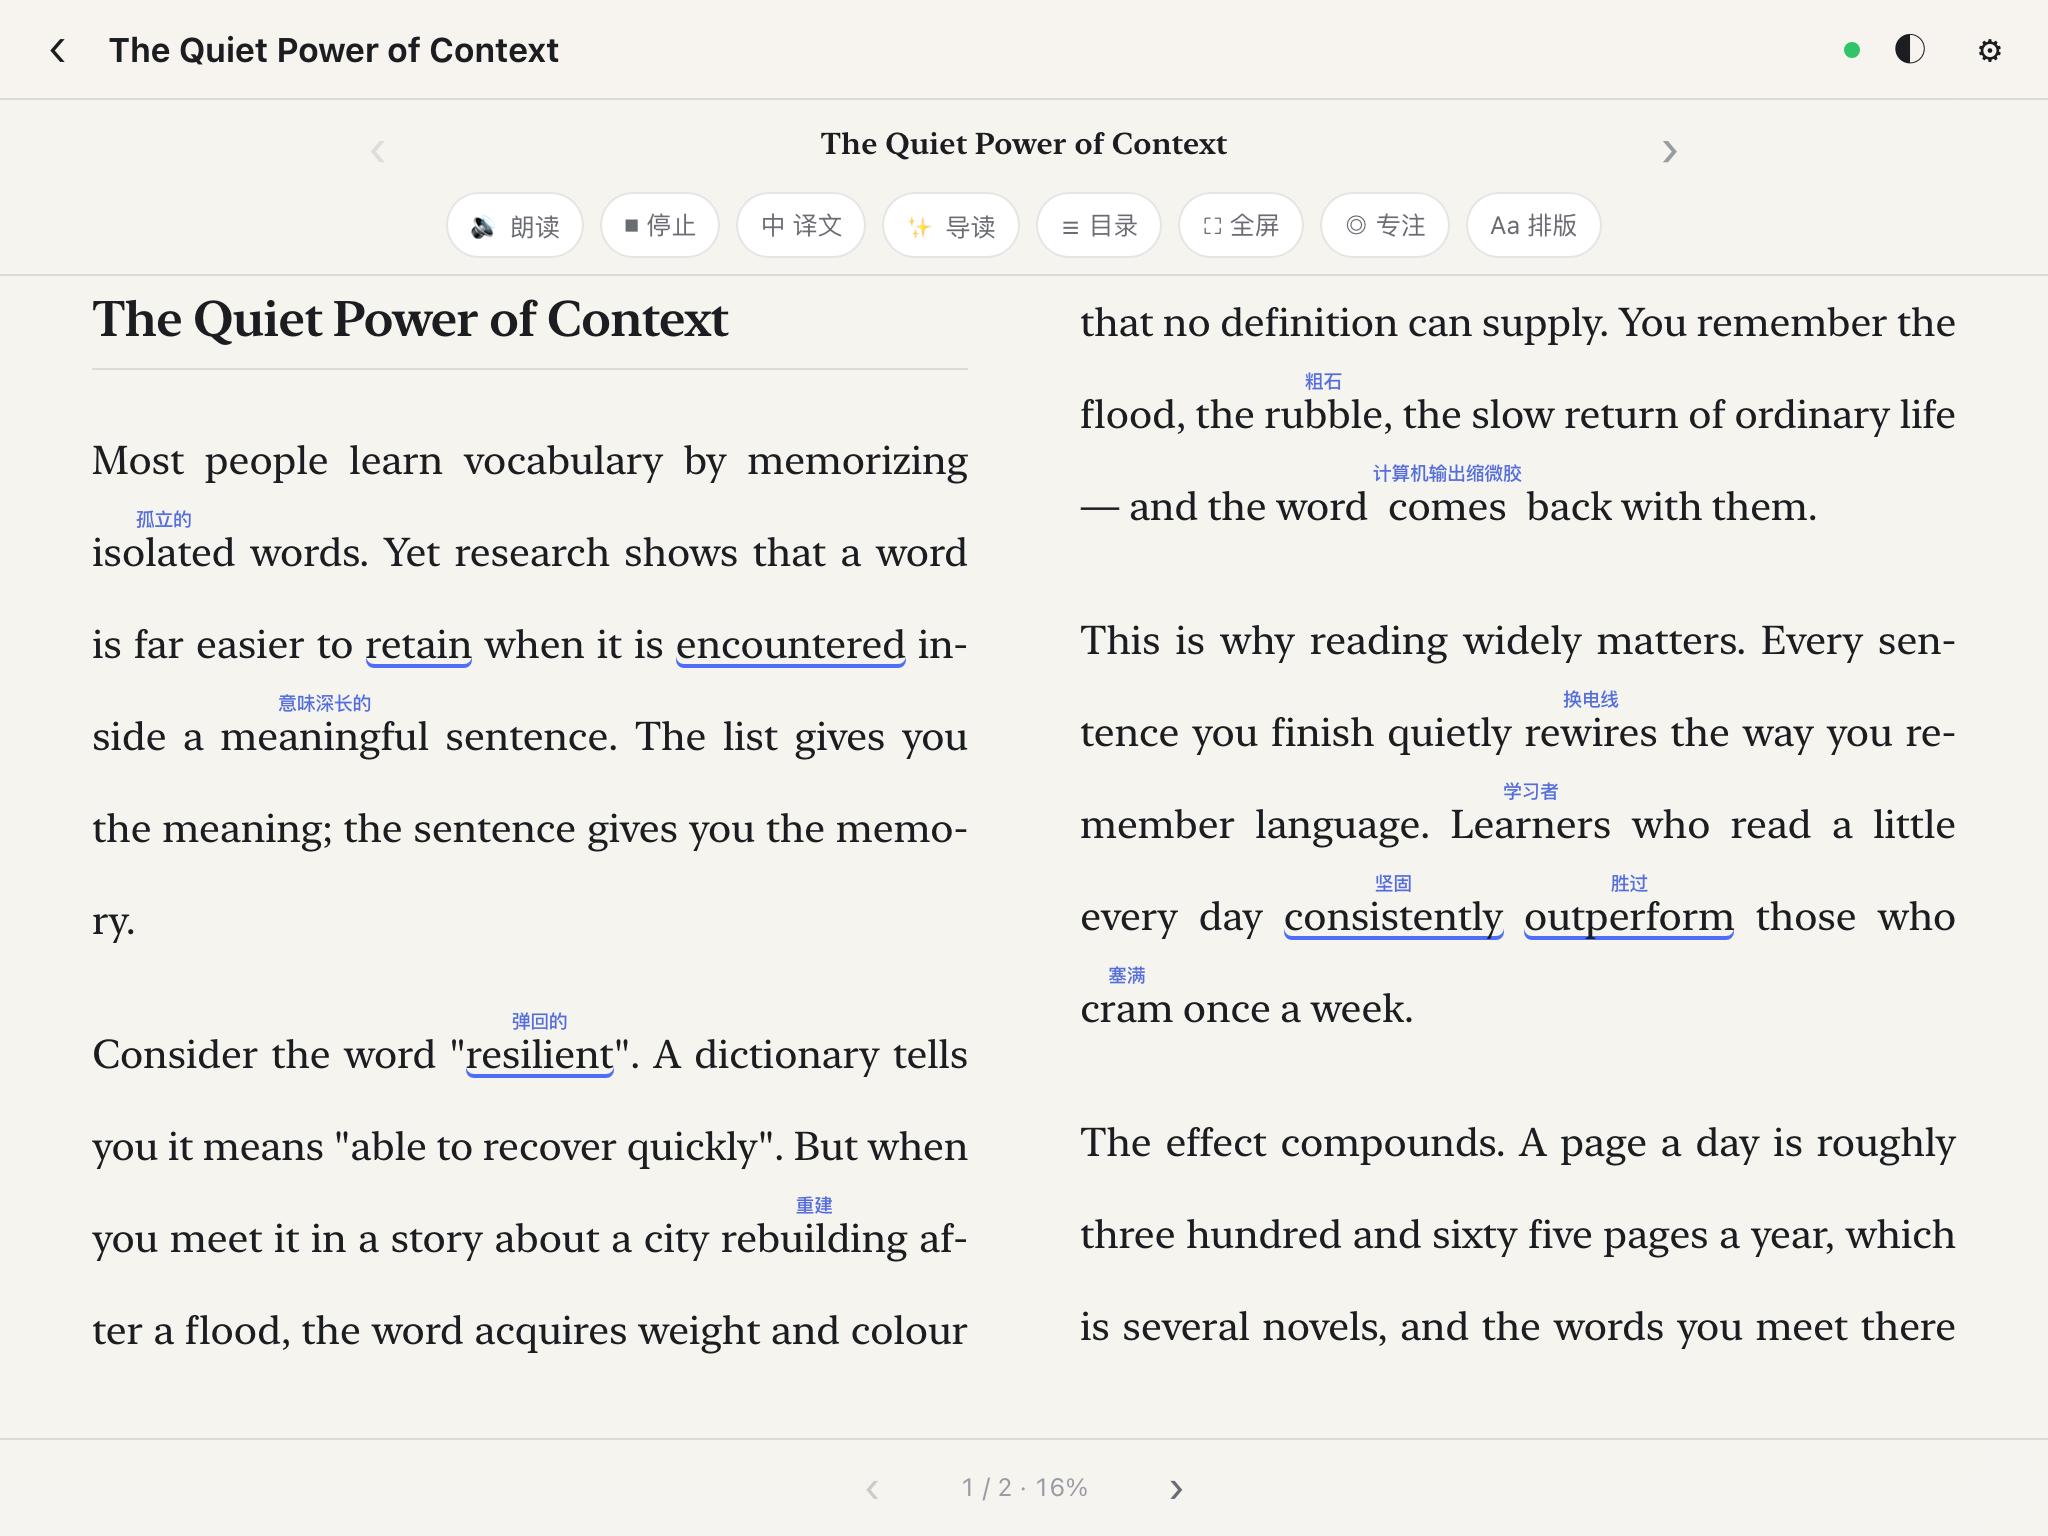
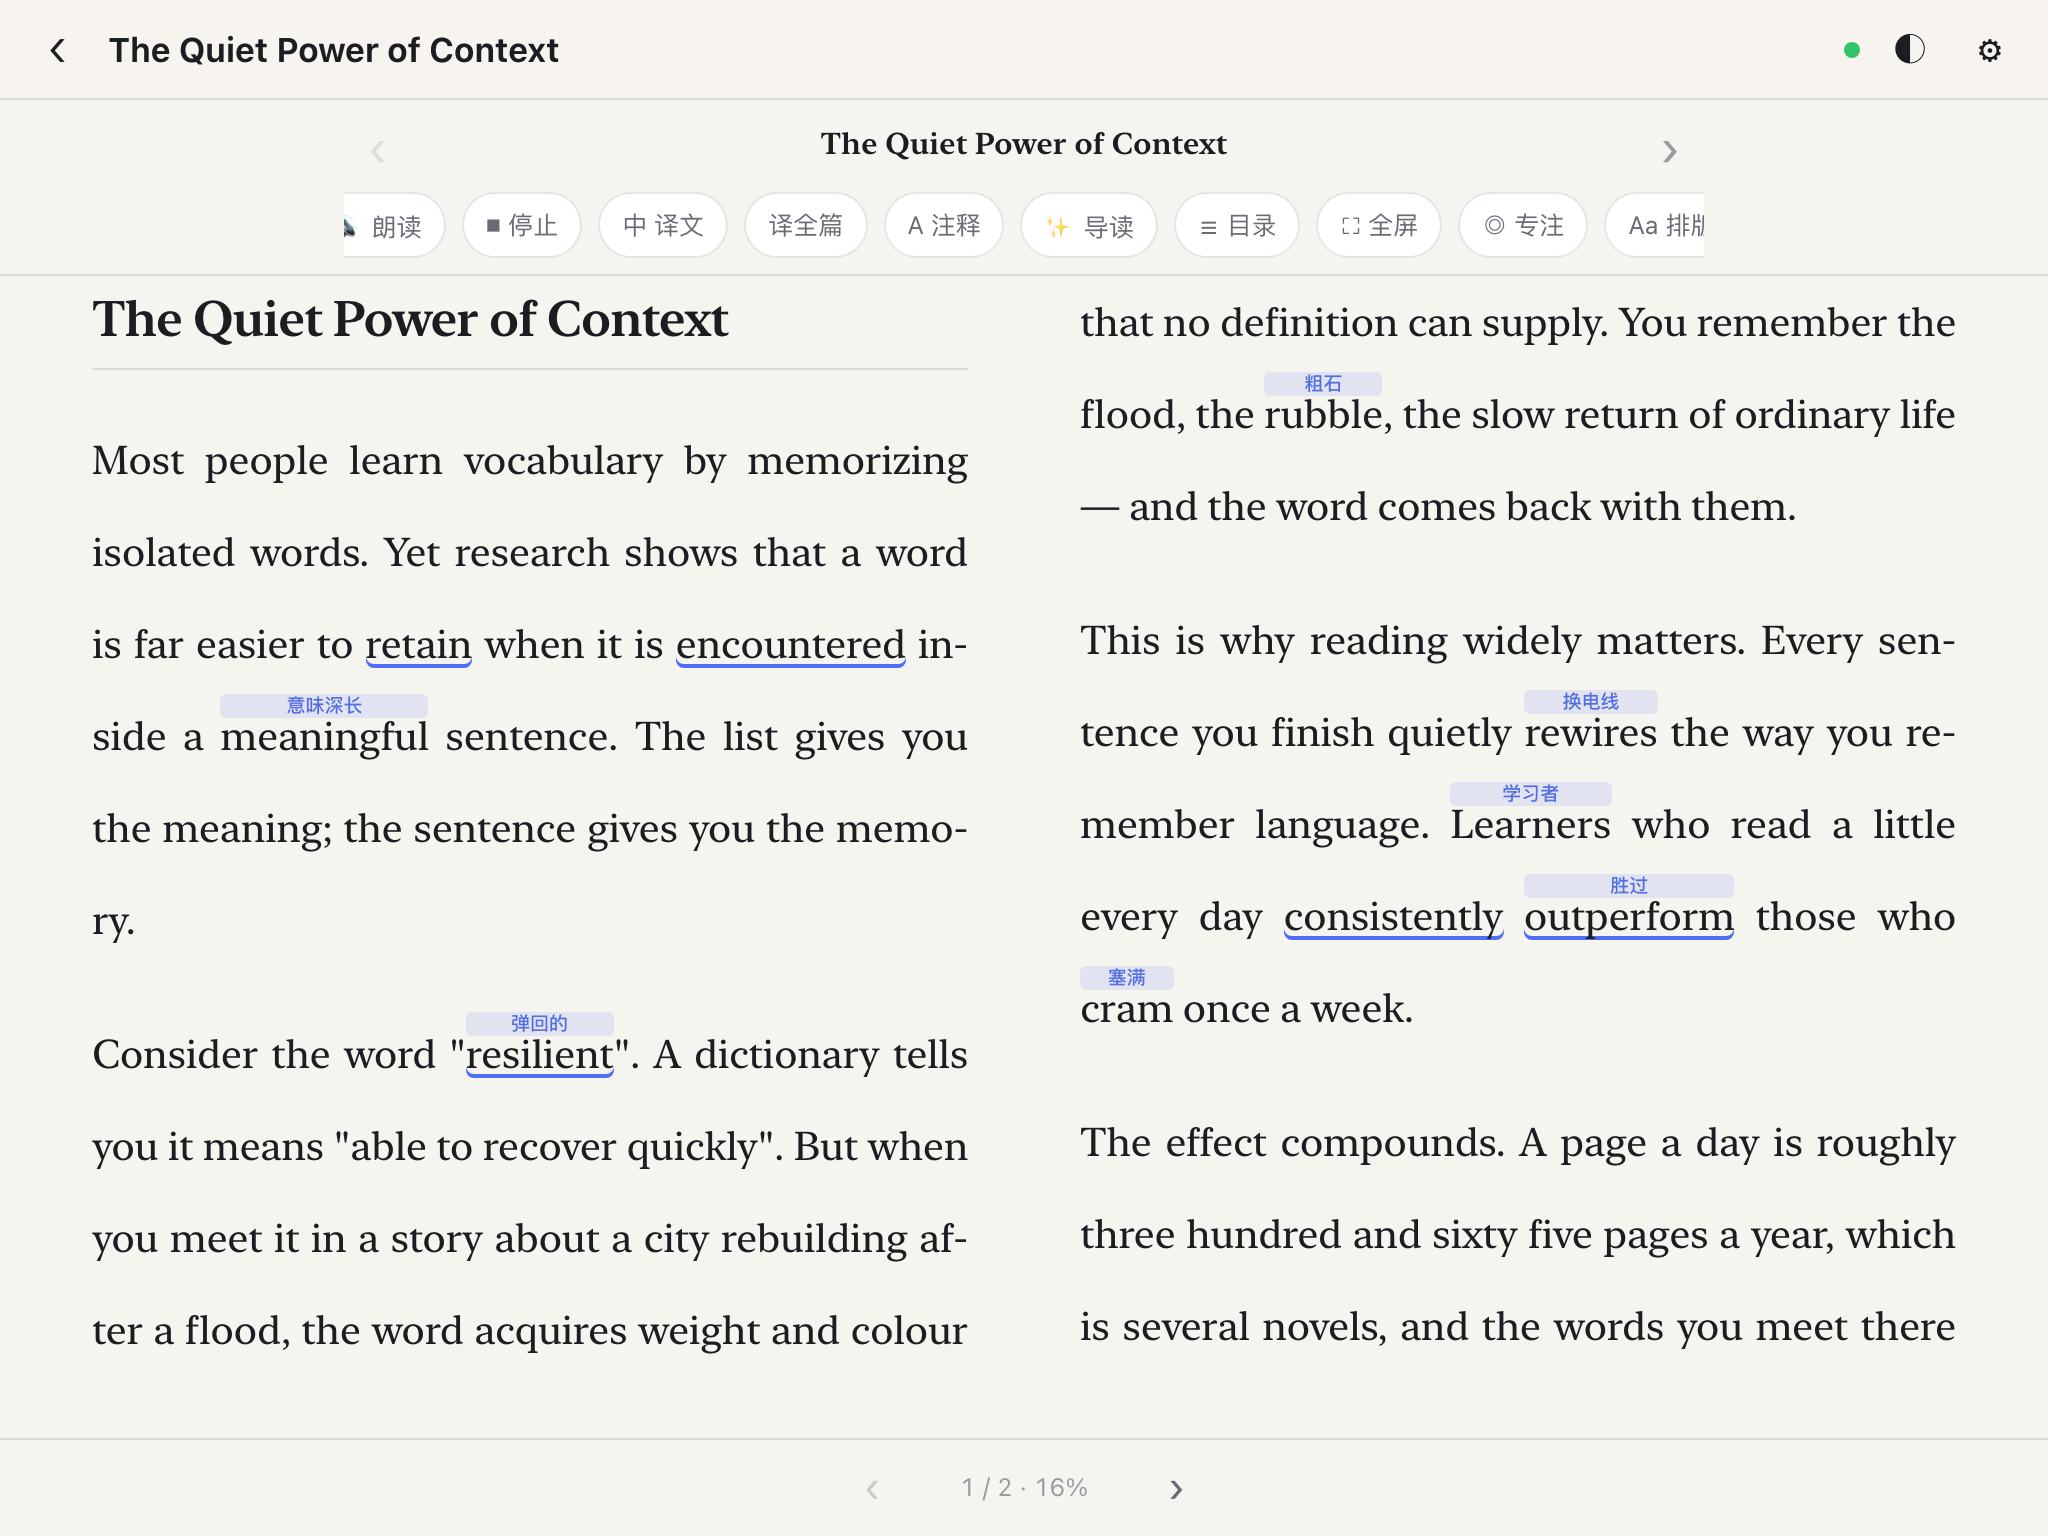
修注释准确性与面板标题粘中文
注释准确度（用户反馈：简单词被标、难词没标）：
- 根因一：buying / intimidating / Learners 这类词的词典条目里没有
  「（buy 的现在分词）」这种词形提示，只靠 lemma 还原不到原形，被当难词标了
  → 难度判定改为「所有可能的原形都算一遍，取最简单的那一个」
- 根因二：人名地名等专有名词（Tyson → 泰森（姓氏））也被标了 → 直接跳过
- 词频门槛收紧：词频 5000 以内的词，六级学习者基本认识
- 释义从最多 6 字缩到 4 字，实际密度从 ~11% 降到 2~5%

面板标题粘中文（formidable巨大的）：
- 带注释的词是 <ruby>词<rt>释义</rt></ruby>，读 textContent 会把 rt 一起读进去
- 新增 surfaceOf()：优先用 data-w，否则跳过 <rt> 节点
- 影响点词面板标题、朗读文本、复制

注释视觉：给 rt 加淡底色，让「这个释义属于哪个词」一眼可辨

测试 127 项全绿（e2e 新增「点带注释的词标题不粘中文」）

diff --git a/src/app.js b/src/app.js
@@ -536,8 +536,10 @@ function levelOfRec(rec) {
   if (has('ky')) return 5;
   if (has('toefl') || has('ielts')) return 6;
   if (has('gre')) return 7;
-  if (frq && frq <= 10000) return 4;
-  if (frq && frq <= 20000) return 5;
+  // 没有考纲标签时按词频估：词频 5000 以内的词，六级学习者基本都认识
+  if (frq && frq <= 8000) return 3;
+  if (frq && frq <= 15000) return 4;
+  if (frq && frq <= 25000) return 5;
   return 6;
 }
 
@@ -547,9 +549,18 @@ function wordLevelOf(word) {
   const rec = dict.lookup(word);
   if (!rec) return 0;
   let lv = levelOfRec(rec);
+
+  // 把所有可能的原形都算一遍，取最简单的那一个。
+  // 关键：buying / showered / intimidating 这类词的词典条目里没有「（buy 的现在分词）」
+  // 这种提示，只靠 lemma 还原不到原形，会被误判成难词标上注释。
+  const cands = new Set();
   const baseW = rec.exact ? rec.lemma : rec.matched;
-  if (baseW && baseW !== word) {
-    const b = dict.lookup(baseW);
+  if (baseW) cands.add(baseW);
+  for (const c of dict.stemCandidates(word)) cands.add(c);
+
+  for (const c of cands) {
+    if (!c || c === word) continue;
+    const b = dict.lookup(c);
     if (b) lv = Math.min(lv, levelOfRec(b));
   }
   return lv;
@@ -565,13 +576,16 @@ function shortGloss(rec) {
     if (!clean) continue;
     const first = clean.split(/[，,、]/)[0].trim();
     if (!first) continue;
-    return first.length > 6 ? first.slice(0, 6) : first;
+    return first.length > 4 ? first.slice(0, 4) : first;
   }
   // 全都被过滤掉了就退回原文
   const t = String(rec.translation).replace(/^[a-z]{1,5}\.\s*/i, '').replace(/\[[^\]]*\]/g, '');
   const first = t.split(/[；;，,、]/)[0].trim();
-  return first.length > 6 ? first.slice(0, 6) : first;
+  return first.length > 4 ? first.slice(0, 4) : first;
 }
+
+/* 人名、地名、机构名之类：标了也没用，还特别吵 */
+const PROPER_NOISE = /(姓氏|人名|男子名|女子名|男子名|地名|城市|国家|州名|河名|山名|岛名|公司|商标|缩写|略语|即|原名|同|见)/;
 
 /** 这个词要不要加注释；要的话返回 rt 里显示的文本 */
 function annoTextFor(word) {
@@ -596,10 +610,16 @@ function annoTextFor(word) {
 
   let out = '';
   try {
-    if (wordLevelOf(word) >= need) {
-      const rec = dict.lookup(word);
-      const g = shortGloss(rec);
-      if (g) out = settings.annotatePhonetic && rec && rec.phonetic ? `${rec.phonetic} ${g}` : g;
+    const rec = dict.lookup(word);
+    if (rec && wordLevelOf(word) >= need) {
+      const raw = String(rec.translation || '');
+      const tags = rec.tags || [];
+      const plain = tags.length === 0 && (!rec.frq || rec.frq === 0) && (rec.collins || 0) === 0;
+      // 专有名词、以及毫无考纲/词频信息又带括号解释的条目，一律不标
+      if (!PROPER_NOISE.test(raw.split('；')[0]) && !plain) {
+        const g = shortGloss(rec);
+        if (g) out = settings.annotatePhonetic && rec.phonetic ? `${rec.phonetic} ${g}` : g;
+      }
     }
   } catch {}
   if (annoMemo.size > 30000) annoMemo.clear();
@@ -855,6 +875,19 @@ function onScroll() {
 }
 
 /* ── 点词 / 点句 ── */
+/** 取词元素上的纯单词文本。带注释的词是 <ruby>词<rt>释义</rt></ruby>，
+ *  直接读 textContent 会把释义一起读进去（面板标题变成「formidable巨大的」）。 */
+function surfaceOf(el) {
+  if (!el) return '';
+  if (el.dataset && el.dataset.w) return el.dataset.w;
+  let out = '';
+  for (const n of el.childNodes) {
+    if (n.nodeType === 3) out += n.nodeValue;
+    else if (n.nodeName !== 'RT') out += n.textContent || '';
+  }
+  return out.trim();
+}
+
 function onReaderClick(e) {
   if (isModalOpen()) return;
   // 点左半边 → 详情放右边；点右半边 → 详情放左边，永远不挡着正在读的地方
@@ -863,7 +896,7 @@ function onReaderClick(e) {
     S.panelSide = (r.left + r.width / 2) < window.innerWidth / 2 ? 'right' : 'left';
   } catch { S.panelSide = 'right'; }
   const w = e.target.closest?.('.w');
-  if (w) { showWordPanel(w.dataset.w, +w.dataset.sid, w.textContent); return; }
+  if (w) { showWordPanel(w.dataset.w, +w.dataset.sid, surfaceOf(w)); return; }
   const s = e.target.closest?.('.sent');
   if (s) { showSentencePanel(+s.dataset.sid); }
 }
@@ -2512,7 +2545,7 @@ function focusWord(word) {
   const el = forceRenderBlock(S.cur.sidBlock ? S.cur.sidBlock[hit.sid] : null);
   if (el) el.scrollIntoView({ block: 'center' });
   const target = el && el.querySelector(`.w[data-sid="${hit.sid}"][data-w="${CSS.escape(w)}"]`);
-  showWordPanel(String(word), hit.sid, target ? target.textContent : word);
+  showWordPanel(String(word), hit.sid, target ? surfaceOf(target) : word);
 }
 
 /** 支持 ?article=<id> / ?word=<word> / ?tab=vocab / ?tab=settings / ?review=1 深链接（PWA 快捷方式也用它） */

diff --git a/tests/e2e.html b/tests/e2e.html
@@ -375,19 +375,19 @@ try {
   const keys = await W().caches.keys();
   let shell = {};
   try {
-    const c = await W().caches.open('lexiread-v21');
+    const c = await W().caches.open('lexiread-v24');
     for (const u of ['./index.html', './src/app.js', './styles.css', './icons/icon-192.png']) {
       shell[u] = !!(await c.match(u));
     }
   } catch (e) { shell = { err: e.message }; }
-  const ok = ctrl && keys.includes('lexiread-v21') && Object.values(shell).every(Boolean);
+  const ok = ctrl && keys.includes('lexiread-v24') && Object.values(shell).every(Boolean);
   rec(ok, 'Service Worker 接管并缓存应用外壳（离线可用）',
     JSON.stringify({ ctrl, keys, shell }).slice(0, 160));
 } catch (e) { rec(false, 'Service Worker 接管并缓存应用外壳（离线可用）', e.message); }
 
 /* 22 ── 词典已缓存，可离线查词 */
 try {
-  const c = await W().caches.open('lexiread-v21');
+  const c = await W().caches.open('lexiread-v24');
   const hit = await c.match(new URL('./data/dict.json', W().location.href).href);
   const size = hit ? (await hit.clone().text()).length : 0;
   rec(!!hit && size > 1000000, '离线词典已进入缓存', JSON.stringify({ size }));
@@ -689,6 +689,29 @@ try {
     '「中 译文」只翻当前这一页，不会把整篇都翻掉',
     JSON.stringify({ 总页数: totalPages, 总段数: paras, 本页实际请求: used }));
 } catch (e) { rec(false, '「中 译文」只翻当前这一页，不会把整篇都翻掉', e.message); }
+
+/* 39 ── 点带注释的词，面板标题不能把中文注释粘进去（曾是 "formidable巨大的"） */
+try {
+  if (!D().querySelector('#panel').hidden) { D().querySelector('#ph-close').click(); await wait(300); }
+  // 确保注释是开的
+  if (!D().querySelector('#reader-body ruby.w')) {
+    D().querySelector('[data-action="toggle-annotate"]').click();
+    await waitFor(() => D().querySelector('#reader-body ruby.w'), 15000, '注释出现');
+  }
+  const ruby = D().querySelector('#reader-body ruby.w');
+  if (!ruby) throw new Error('正文里没有带注释的词');
+  const base = ruby.dataset.w;
+  const gloss = (ruby.querySelector('rt') || {}).textContent || '';
+  ruby.click();
+  await waitFor(() => !D().querySelector('#panel').hidden, 6000, '面板');
+  await wait(400);
+  const title = (D().querySelector('#ph-word').textContent || '').trim();
+  const ctx = (D().querySelector('#ph-sent') || {}).textContent || '';
+  const clean = title === base && gloss && !title.includes(gloss);
+  rec(clean, '点带注释的词，面板标题只显示单词本身、不粘中文',
+    JSON.stringify({ 标题: title, 原词: base, 注释: gloss, 语境里有中文: /[\u4e00-\u9fa5]/.test(ctx) }));
+  D().querySelector('#ph-close').click();
+} catch (e) { rec(false, '点带注释的词，面板标题只显示单词本身、不粘中文', e.message); }
 
 /* 输出 */
 const pass = results.filter(r => r[0]).length;

diff --git a/styles.css b/styles.css
@@ -274,14 +274,16 @@ body.focus-mode #topbar, body.focus-mode #tabbar{ transition: opacity .3s; }
 .seg-btn.is-on{ background: var(--bg-elev); color: var(--fg); box-shadow: 0 1px 4px rgba(0,0,0,.10); }
 
 /* ── 分级注释（ruby 行间注） ── */
-.reader-body ruby.w{ ruby-align: center; ruby-position: over; }
+.reader-body ruby.w{ ruby-align: center; ruby-position: over; hyphens: none; }
 .reader-body ruby.w rt{
   font-family: var(--ff-sans); font-size: 9.5px; line-height: 1.15;
-  color: color-mix(in srgb, var(--accent) 80%, var(--fg-dim));
-  font-weight: 500; letter-spacing: -.2px; user-select: none;
-  padding-bottom: 2px;
+  color: color-mix(in srgb, var(--accent) 85%, var(--fg-dim));
+  font-weight: 500; letter-spacing: 0; user-select: none;
+  white-space: nowrap; hyphens: none; text-indent: 0;
+  /* 加一层淡淡的底色，让「这个释义属于哪个词」一眼可辨 */
+  background: color-mix(in srgb, var(--accent) 12%, transparent);
+  border-radius: 3px; padding: 0 3px 1px;
 }
-html[data-justify="1"] .reader-body ruby.w rt{ hyphens: none; }
 /* 有注释的行之间要多留一点空间，否则上标会挤在一起 */
 .reader-body p:has(ruby.w){ line-height: calc(var(--lh) + .35); }
 

diff --git a/src/dict.js b/src/dict.js
@@ -237,6 +237,14 @@ export function resolveBase(word) {
   return base;
 }
 
+/** 暴露规则化的词干候选（buying→buy、studies→study 之类）。
+ *  用于「难度判定」这种需要保守估计的场合：只要有一个候选是简单词，就当简单词。 */
+export function stemCandidates(word) {
+  const w = String(word || '').toLowerCase().replace(/[’]/g, "'");
+  if (!w) return [];
+  try { return variants(w).filter(v => index && index.has(v)); } catch { return []; }
+}
+
 /** 模糊搜索（前缀），用于词典页 */
 export function suggest(prefix, limit = 12) {
   if (!index) return [];

diff --git a/sw.js b/sw.js
@@ -3,7 +3,7 @@
    离线词典：cache-first（2.9MB，装一次就够了）
    AI 接口与外部抓取：直连网络，永不缓存           */
 
-const VERSION = 'lexiread-v21';
+const VERSION = 'lexiread-v24';
 const SHELL = [
   './',
   './index.html',

diff --git a/README.md b/README.md
@@ -37,8 +37,10 @@
 - **分级注释**：工具栏「A 注释」**连点循环切换**（关闭 → 六级以上 → 考研以上 → 托福/雅思以上），
   或者到设置里选「四级以上 / 六级以上 / 考研以上 / 托福雅思以上 / GRE」，
   文中超过这个难度的词会自动在**头顶标出简短中文释义**（可选带音标），像日文的注音一样。
-  难度判定用考纲标签 + 词频 + **词形还原**：`is→be`、`words→word`、`easier→easy`
-  都会回退到原形判断，所以 can / in / day 这类基础词绝不会被标（托福词表里也有它们）。
+  难度判定用考纲标签 + 词频 + **完整词形还原**：`is→be`、`words→word`、`easier→easy`、
+  `buying→buy`、`intimidating→intimidate` 都会回退到原形判断，只要有一个原形是基础词就不标
+  （托福词表里也有 can / in / day，取最高级别会把它们全标上）。
+  人名地名等专有名词直接跳过。实际密度约 **2~5%**，只标真正该查的词。
 - **章节目录**：工具栏「☰ 目录」列出所有章节，点一下直接跳过去；
   EPUB 的章节标题会被自动识别。
 - **按字数算的阅读进度**：页脚显示 `1 / 6 · 16%`，百分比是按**已读词数**算的，不是页数。
@@ -196,6 +198,8 @@ https://<你的用户名>.github.io/lexi-read/
 | **「中 译文」点了没反应** | 翻页模式下工具栏被设成 `opacity:0` 隐藏，iPad 没有 hover，按钮点不到 |
 | 分级注释**一个都不显示** | 词典还没加载完时的空结果被写进了缓存，之后永远返回空 |
 | `comes` 被解释成「计算机输出缩微胶」 | 词形还原取了第一个候选 `com`（缩写），而不是最常用的 `come` |
+| 点带注释的词，面板标题变成 `formidable巨大的` | `textContent` 把 `<rt>` 里的中文注释一起读进去了 |
+| 注释把 `buying`、`Learners` 这类简单词也标了 | 这些词的词典条目里没有「（buy 的现在分词）」提示，只靠 lemma 还原不到原形 |
 
 ### 一个已被修掉的严重 bug：推送时漏了 `user_id`
 
@@ -285,7 +289,7 @@ lexi-read/
     ├── ai.html                11 项 AI 客户端兼容测试（/v1 自动探测、非流式、各种坏网关）
     ├── import.html            11 项文件导入测试（EPUB / DOCX / 两种 PDF / GBK 编码）
     ├── migrate.html            5 项数据库 v1→v2 迁移测试
-    ├── e2e.html               42 项端到端 UI 测试（含 AI 流式、中文对照、注释开关、面板浮层、Service Worker 离线）
+    ├── e2e.html               43 项端到端 UI 测试（含 AI 流式、中文对照、注释开关、面板浮层、Service Worker 离线）
     ├── stress.html             6 项大文件压力测试（60 万词的书）
     ├── sync.html              21 项跨设备同步测试（真·两个浏览器源）
     ├── device.html            测试用的「设备」桥（postMessage 远程指挥）
@@ -309,7 +313,7 @@ python3 -m http.server 8791 &          # shoot.py 默认从 8791 取
 python3 scripts/shoot.py
 ```
 
-一共 **126 项测试**，跑法是：
+一共 **127 项测试**，跑法是：
 
 ```bash
 for t in smoke ai import migrate e2e stress sync; do
